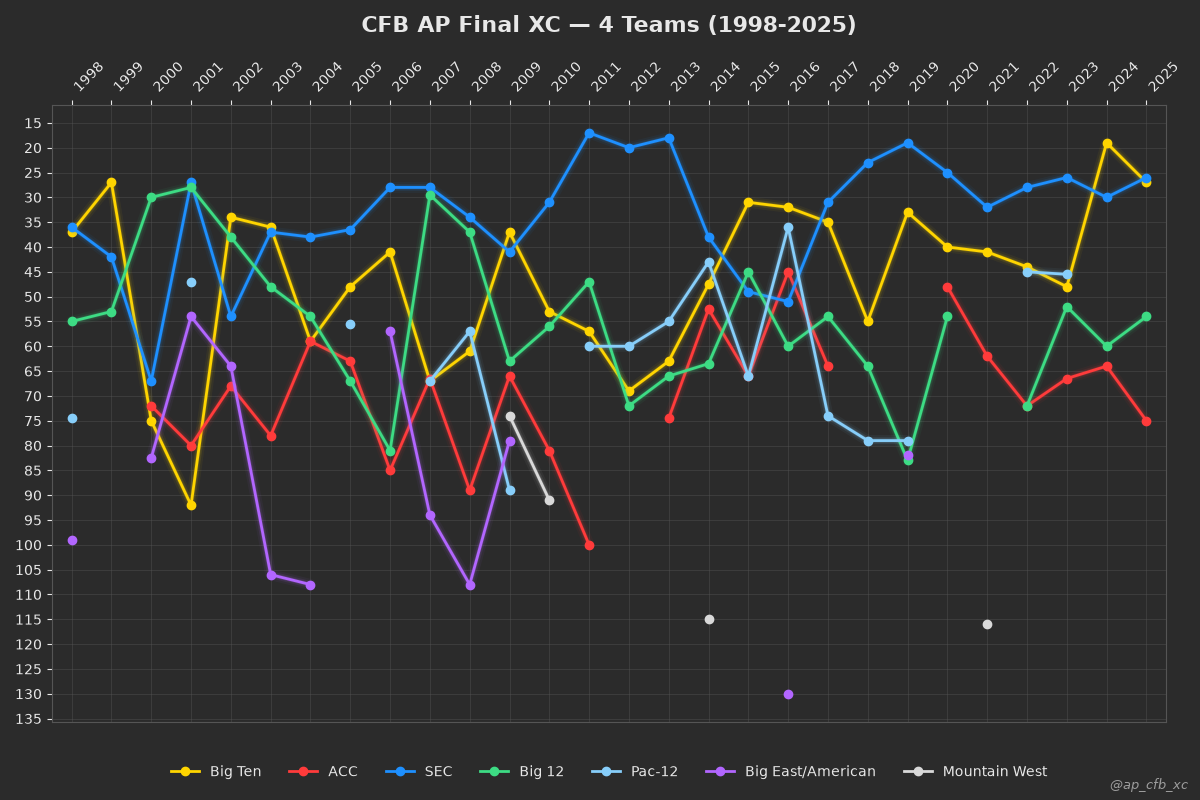
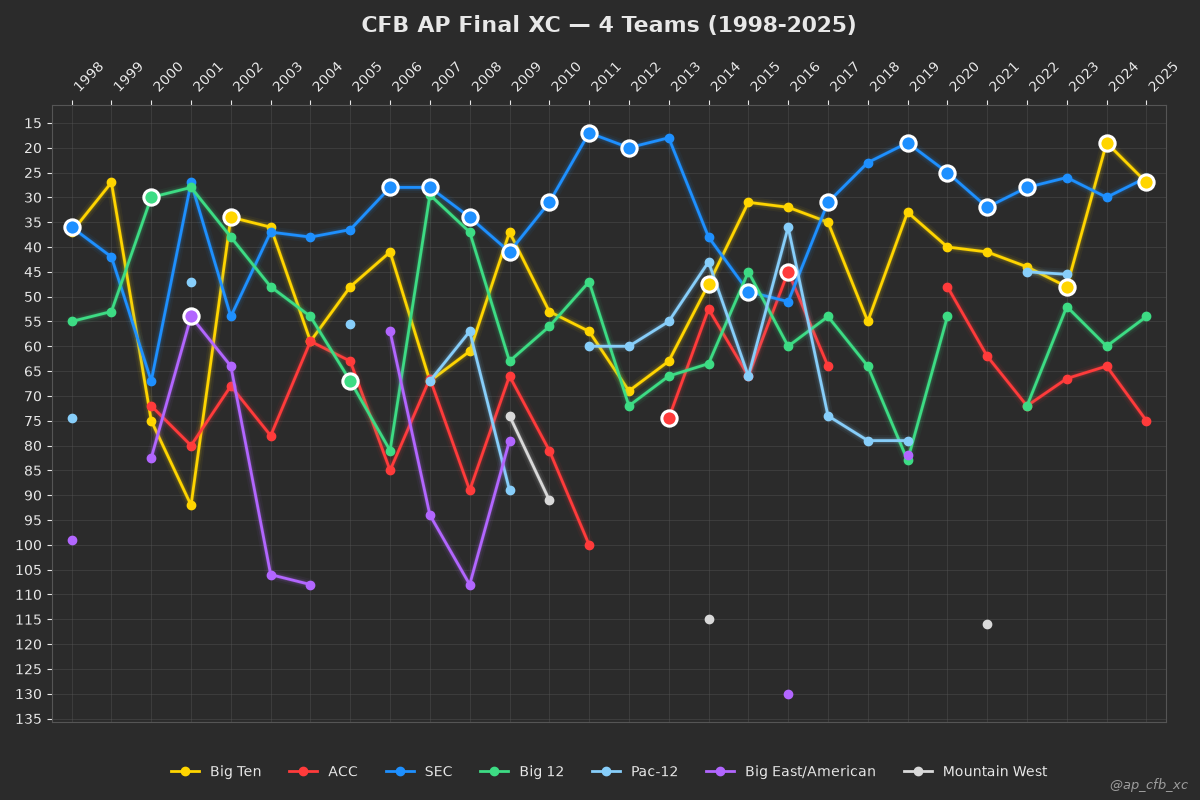
Update graphing to include indication of a national championship by conference

diff --git a/graph_data.py b/graph_data.py
@@ -1,5 +1,6 @@
 import itertools
 import os
+import re
 
 import pandas as pd
 import matplotlib.pyplot as plt
@@ -62,12 +63,63 @@ def _color_for_conference(name, fallback_cycle):
     return CONFERENCE_COLORS.get(name) or next(fallback_cycle)
 
 
+_CONFERENCE_NAME_RE = re.compile(r"^\('(?P<name>.*?)',")
+_RANK_NUMBER_RE = re.compile(r"-?\d+\.?\d*")
+
+
+def _cell_conference_name(cell) -> str:
+    """Pull the conference/team name out of a "('Name', value)" cell from a week CSV - value may
+    be a bare number, 'DNS', or wrapped like 'np.int64(9)'/'np.float64(9.0)', but the name is
+    always the first quoted string, so this doesn't need to understand the value at all."""
+    if pd.isna(cell):
+        return None
+    match = _CONFERENCE_NAME_RE.match(str(cell).strip())
+    return match.group("name") if match else None
+
+
+def _cell_rank(cell) -> float:
+    """Pull the numeric rank out of a "('Team', rank)" cell from a week CSV, or None if the cell
+    is blank."""
+    if pd.isna(cell):
+        return None
+    number_match = _RANK_NUMBER_RE.search(str(cell))
+    return float(number_match.group()) if number_match else None
+
+
+def _champion_conference(year: int, team_dir: str) -> str:
+    """Return the conference shortName of the AP poll's #1 team in `year`'s Final week, read
+    straight from that week's own stored per-week CSV - or None if that file doesn't exist yet
+    (i.e. the season hasn't reached its Final poll).
+
+    Reads the raw per-week file (not the summary_statistics rollup) because it lists each
+    conference's scoring teams ranked best-to-worst, so the #1 overall team is always the top
+    entry under whichever conference column it belongs to - independent of 4-team/5-team scoring
+    mode, since that only changes how many teams count toward the conference's score, not who
+    ranked #1 nationally.
+    """
+    week_file = os.path.join(
+        os.path.abspath(os.curdir), "data", str(year), team_dir, f"{year}_week_final.csv"
+    )
+    if not os.path.exists(week_file):
+        return None
+    raw = pd.read_csv(week_file, header=None)
+    if raw.empty:
+        return None
+    conference_names = [_cell_conference_name(cell) for cell in raw.iloc[0]]
+    for col_idx, top_team_cell in enumerate(raw.iloc[1]):
+        rank = _cell_rank(top_team_cell)
+        if rank == 1:
+            return conference_names[col_idx]
+    return None
+
+
 def generate_graph(
     summary_stats_df,
     title: str = "Weekly Results",
     show: bool = True,
     drop_empty_weeks: bool = True,
     year: int = None,
+    champion_highlight: dict = None,
 ) -> plt.plot:
     """
     :param drop_empty_weeks: if True (default), weeks/rows with no data at all across every
@@ -78,6 +130,11 @@ def generate_graph(
     :param year: season year, used (if we've cached it - see store_data.record_regular_season_week_
         count()) to definitively suppress an unused "Week 16" even mid-season, rather than waiting
         until Week 15 and Final are both recorded to infer it from the data.
+    :param champion_highlight: optional {x_label: conference_name} map built by the caller (see
+        graph_year() / graph_final_rankings_by_year(), which know how to look up each season's AP
+        #1 team via _champion_conference()). For each entry whose x_label/conference is actually
+        present in the cleaned data, that point is redrawn larger with a white outline - the same
+        fill color, just marking it as that season's national champion's conference.
     """
     # Set Week column as index
     summary_stats_df.set_index("Week", inplace=True)
@@ -96,9 +153,33 @@ def generate_graph(
 
     # Plot the data, one glowing line per conference
     fallback_cycle = itertools.cycle(FALLBACK_COLORS)
+    column_colors = {}
     for column in df_cleaned.columns:
         color = _color_for_conference(column, fallback_cycle)
+        column_colors[column] = color
         _glow_plot(ax, df_cleaned.index, df_cleaned[column], color, column)
+
+    # Mark each season's national-champion conference at its Final-week/Final-year point: same
+    # dot and fill color, just larger with a bright white outline (keeps working regardless of
+    # which conference color it lands on, including yellow)
+    if champion_highlight:
+        for x_label, champ_conf in champion_highlight.items():
+            if champ_conf not in df_cleaned.columns or x_label not in df_cleaned.index:
+                continue
+            y_val = df_cleaned.loc[x_label, champ_conf]
+            if pd.isna(y_val):
+                continue
+            ax.plot(
+                [x_label],
+                [y_val],
+                marker="o",
+                markersize=11,
+                markerfacecolor=column_colors[champ_conf],
+                markeredgecolor="#FFFFFF",
+                markeredgewidth=2.2,
+                linestyle="none",
+                zorder=6,
+            )
 
     # Force the full category range into view - matplotlib's autoscale only considers the finite
     # (non-NaN) data range, which would otherwise crop out any not-yet-reached, still-blank weeks
@@ -221,9 +302,22 @@ def graph_year(year: int, num_scoring_teams: int = 5, show: bool = True) -> plt.
     idx_header = f"AP_XC_{team_dir.title()}_Race"
     df.rename(columns={idx_header: "Week"}, inplace=True)
 
+    # Only set if the Final poll has actually been recorded for this season - _champion_conference()
+    # returns None while the season is still in progress, mid-season, since week_final.csv won't
+    # exist yet
+    champ_conf = _champion_conference(year, team_dir)
+    champion_highlight = {"Final": champ_conf} if champ_conf else None
+
     title = f"CFB AP {year} XC — {num_scoring_teams} Teams"
     # Keep every not-yet-reached week visible (blank) so the chart shows how far into the season we are
-    return generate_graph(df, title=title, show=show, drop_empty_weeks=False, year=year)
+    return generate_graph(
+        df,
+        title=title,
+        show=show,
+        drop_empty_weeks=False,
+        year=year,
+        champion_highlight=champion_highlight,
+    )
 
 
 # Conferences that are the same underlying entity across a rename/membership change, folded into
@@ -296,8 +390,21 @@ def graph_final_rankings_by_year(
     final_by_year_df.index.name = "Week"
     final_by_year_df.reset_index(inplace=True)
 
+    # For each year with a recorded Final poll, look up its AP #1 team's conference and relabel it
+    # through the same realignment merges as the data itself, so the highlighted point lands on
+    # whichever merged column (e.g. "Pac-12", "Big East/American") that year's line actually uses
+    champion_highlight = {}
+    for year in years_with_data:
+        champ_conf = _champion_conference(year, team_dir)
+        if champ_conf:
+            champion_highlight[str(year)] = CROSS_SEASON_CONFERENCE_MERGES.get(
+                champ_conf, champ_conf
+            )
+
     title = f"CFB AP Final XC — {num_scoring_teams} Teams ({title_start}-{title_end})"
-    return generate_graph(final_by_year_df, title=title, show=show)
+    return generate_graph(
+        final_by_year_df, title=title, show=show, champion_highlight=champion_highlight
+    )
 
 
 def update_final_rankings_graph(num_scoring_teams: int = 5) -> str:
